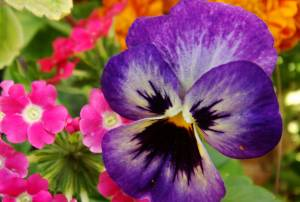
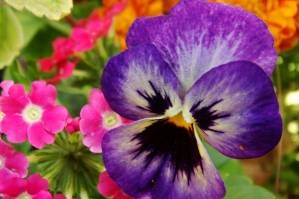
product pic sizes

diff --git a/service-worker.js b/service-worker.js
@@ -1,4 +1,4 @@
-var cacheName = "service-worker-cache-v10"
+var cacheName = "service-worker-cache-v11"
 var filesToCache = [
   "/resources/manifest.json",
   "/resources/body.html",

diff --git a/test-site/styles.css b/test-site/styles.css
@@ -60,3 +60,7 @@ form {
     display: block;
     height: 0;
 }
+
+.product-card img {
+    width:100%;
+}
